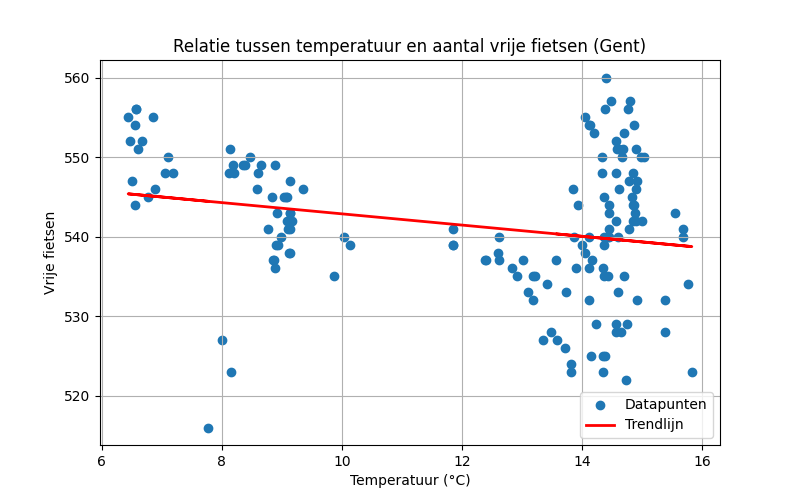
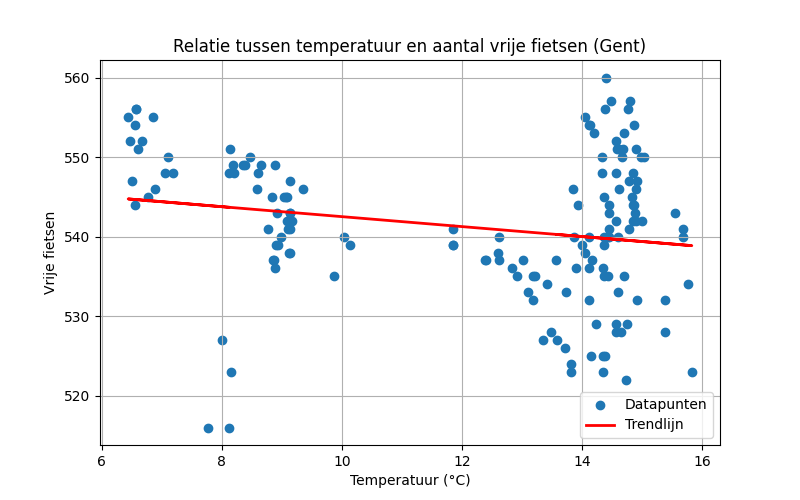
Automatische update 2025-11-17 09:15:08

Changed region(s): [[0.1562, 0.36, 0.7188, 0.48], [0.8125, 0.48, 0.875, 0.51], [0.2812, 0.84, 0.3125, 0.87]]

diff --git a/reports/report.md b/reports/report.md
@@ -1,22 +1,22 @@
 # Data Workflow Rapport
 
-**Gegenereerd op:** 2025-11-17 09:00:10.462577
+**Gegenereerd op:** 2025-11-17 09:15:07.742790
 
 ## Grafiek: Vrije fietsen vs Temperatuur
 ![Fietsen vs Temp](fiets_vs_temp.png)
 
 ## Basisstatistieken
-- Gemiddelde temperatuur: 12.17 °C
+- Gemiddelde temperatuur: 12.14 °C
 - Gemiddeld aantal vrije fietsen: 541
 - Gemiddeld aantal fietsen overdag (07-19u): 539
 - Gemiddeld aantal fietsen ’s nachts (19-07u): 545
-- Correlatie: -0.24
+- Correlatie: -0.20
 
 ## Vrije fietsen per weekdag
 
 | Weekdag | Min | Max | Gemiddelde |
 |---------|-----|-----|------------|
-| Maandag | 516 | 556 | 536 |
+| Maandag | 516 | 556 | 532 |
 | Dinsdag | 0 | 0 | 0 |
 | Woensdag | 0 | 0 | 0 |
 | Donderdag | 525 | 550 | 535 |
